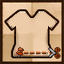
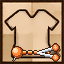
Íconos de rango: chincheta, tijera y línea de corte redibujadas más vivas y con contorno (sin aplicar)
Claude-Session: https://claude.ai/code/session_014VeQUjMv7G1rcVBXsxCHBx

diff --git a/tools/ajustar_iconos_rango.py b/tools/ajustar_iconos_rango.py
@@ -24,6 +24,15 @@ NOMBRES = ["cero", "minimo", "corto", "medio", "mediolargo", "largo", "maximo"]
 COBRE_CLARO = np.array([242, 170, 120])
 COBRE_MEDIO = np.array([184, 102, 56])
 COBRE_OSCURO = np.array([96, 44, 22])
+# Destaques (2026-10-04, "mas brillante e iconica a la chincheta y a la tijera. Y a la linea de corte"): cobre vivo.
+VIVO = np.array([255, 138, 58])
+VIVO_LUZ = np.array([255, 214, 160])
+VIVO_SOMBRA = np.array([176, 72, 28])
+TINTA = np.array([59, 36, 16])
+ACERO = np.array([206, 215, 226])
+ACERO_LUZ = np.array([248, 250, 253])
+ACERO_SOMBRA = np.array([128, 138, 154])
+XP, X_PIVOTE, X_PUNTA = 17, 45, 37      # centro de la chincheta, eje y puntas de la tijera
 
 
 def mascaras(a):
@@ -86,41 +95,105 @@ def ajustar(img):
     x_tij = int(der.min()) if len(der) else int(np.where(naranja[y0:y1 + 1].any(axis=0))[0].max()) - 8
     xa, xb = x_pin + 2, x_tij - 2           # tramo libre de la línea
 
-    # Piezas = todo lo naranja/gris que NO es el tramo libre de la línea.
+    # Piezas viejas = lo naranja/gris dentro de las ventanas de la chincheta y la tijera.
+    yc = (y0 + y1) // 2
+    ventana = np.zeros_like(naranja)
+    ventana[max(0, yc - 10):yc + 11, 10:27] = True
+    ventana[max(0, yc - 10):yc + 11, 38:64] = True
+    piezas = (naranja | gris) & ventana
     tramo = np.zeros_like(naranja)
-    tramo[max(0, y0 - 1):y1 + 2, xa:xb + 1] = True
-    piezas = (naranja | gris) & ~tramo
+    tramo[max(0, y0 - 1):y1 + 2, :] = True
+    vieja_linea = naranja & ~ventana & tramo
     barrera = dilatar(piezas, 1)
-    dentro = interior(oscuro, barrera | (tramo & naranja), (32, 40))
+    dentro = interior(oscuro, barrera | vieja_linea, (32, 40))
 
-    # 3) puntadas de adentro: mediana (5x5, dos pasadas) solo dentro del contorno y lejos de línea y piezas
+    # puntadas de adentro: mediana (5x5, dos pasadas) solo dentro del contorno y lejos de las piezas y la línea
     suave = Image.fromarray(a).filter(ImageFilter.MedianFilter(5)).filter(ImageFilter.MedianFilter(5))
     suave = np.array(suave)
-    zona = dentro & ~barrera
-    zona[max(0, y0 - 1):y1 + 2, xa:xb + 1] = False
+    zona = dentro & ~barrera & ~tramo
     b = a.copy()
     b[zona] = suave[zona]
 
-    # borrar la línea vieja: mezcla vertical entre la fila de arriba y la de abajo de la banda
-    ya, yb = max(0, y0 - 3), min(63, y1 + 3)
-    for x in range(xa, xb + 1):
-        for y in range(y0 - 1, y1 + 2):
-            if naranja[y, x]:
-                t = (y - ya) / max(1, (yb - ya))
-                b[y, x] = ((1 - t) * b[ya, x] + t * b[yb, x]).astype(np.uint8)
+    # sacar lo viejo (piezas y línea): promedio de los vecinos que no son piezas
+    sacar = dilatar(piezas, 1) | vieja_linea   # +1 px: se lleva también el contorno de tinta de lo viejo
+    valido = ~sacar
+    for _ in range(4):
+        nuevo_b = b.copy()
+        for y, x in zip(*np.where(sacar)):
+            ys, xs = slice(max(0, y - 2), y + 3), slice(max(0, x - 2), x + 3)
+            v = valido[ys, xs]
+            if v.any():
+                nuevo_b[y, x] = b[ys, xs][v].mean(axis=0)
+                valido[y, x] = True
+        b = nuevo_b
+        sacar = sacar & ~valido
 
-    # 1) recolorear el naranja de las piezas → cobre según el brillo
-    for (y, x) in zip(*np.where(naranja & piezas)):
-        v = int(a[y, x, 1])      # el verde separa luz, cuerpo y sombra del naranja
-        b[y, x] = COBRE_CLARO if v > 140 else COBRE_MEDIO if v > 95 else COBRE_OSCURO
+    # Los destaques se dibujan en una capa aparte y se les pone contorno de tinta (más icónicos).
+    capa = np.zeros((64, 64, 4), dtype=np.uint8)
 
-    # nueva línea de corte: 3 px, trazos de 4 con 2 de hueco, brillo arriba y sombra abajo
-    yc = (y0 + y1) // 2
+    def px(x, y, c):
+        if 0 <= x < 64 and 0 <= y < 64:
+            capa[y, x, :3] = c
+            capa[y, x, 3] = 255
+
+    def disco(cx, cy, r, c):
+        for y in range(cy - r, cy + r + 1):
+            for x in range(cx - r, cx + r + 1):
+                if (x - cx) ** 2 + (y - cy) ** 2 <= r * r + r * 0.6:
+                    px(x, y, c)
+
+    # línea de corte: 3 px, trazos de 4 con 2 de hueco, entre la chincheta y la tijera
+    xa, xb = XP + 5, X_PUNTA - 1
     for x in range(xa, xb + 1):
         if ((x - xa) % 6) < 4:
-            b[yc - 1, x] = COBRE_CLARO
-            b[yc, x] = COBRE_MEDIO
-            b[yc + 1, x] = COBRE_OSCURO
+            px(x, yc - 1, VIVO_LUZ)
+            px(x, yc, VIVO)
+            px(x, yc + 1, VIVO_SOMBRA)
+
+    # chincheta: cabeza redonda con luz y sombra, y la aguja que asoma abajo
+    for k in range(5):
+        px(XP - 1 - k // 2 - 1, yc + 4 + k, ACERO if k < 4 else ACERO_SOMBRA)
+    disco(XP, yc, 5, VIVO_SOMBRA)
+    disco(XP - 1, yc - 1, 4, VIVO)
+    disco(XP - 2, yc - 2, 2, VIVO_LUZ)
+    px(XP - 3, yc - 3, ACERO_LUZ)
+    px(XP - 2, yc - 3, ACERO_LUZ)
+
+    # tijera: dos hojas gruesas cruzadas en el eje, entreabiertas hacia la línea, y dos anillos con agujero
+    def hoja(x0, y0_, x1, y1_, claro, medio, sombra):
+        n = max(abs(x1 - x0), abs(y1 - y0_))
+        for k in range(n + 1):
+            t = k / n
+            x = round(x0 + (x1 - x0) * t)
+            y = round(y0_ + (y1 - y0_) * t)
+            alto = 3 if t < 0.55 else 2        # se afina hacia la punta
+            px(x, y - 1, claro)
+            px(x, y, medio)
+            if alto == 3:
+                px(x, y + 1, sombra)
+    # la hoja que sale del anillo de arriba termina abajo, y al revés (así se cruzan en el eje)
+    hoja(X_PIVOTE + 7, yc - 4, X_PUNTA, yc + 3, ACERO_LUZ, ACERO, ACERO_SOMBRA)
+    hoja(X_PIVOTE + 7, yc + 4, X_PUNTA, yc - 3, ACERO_LUZ, ACERO, ACERO_SOMBRA)
+    for sg in (-1, 1):
+        cy = yc + sg * 5
+        disco(X_PIVOTE + 10, cy, 3, VIVO_SOMBRA)
+        disco(X_PIVOTE + 10, cy, 2, VIVO)
+        px(X_PIVOTE + 9, cy - 2, VIVO_LUZ)
+        px(X_PIVOTE + 10, cy - 2, VIVO_LUZ)
+        for ddx in (-1, 0, 1):               # el agujero del anillo, del color del papel
+            px(X_PIVOTE + 10 + ddx, cy, np.array([232, 202, 160]))
+        px(X_PIVOTE + 10, cy - 1, np.array([232, 202, 160]))
+        px(X_PIVOTE + 10, cy + 1, np.array([232, 202, 160]))
+    disco(X_PIVOTE + 3, yc, 1, VIVO_SOMBRA)        # el tornillo del eje
+    px(X_PIVOTE + 3, yc, VIVO_LUZ)
+
+    # contorno de tinta de 1 px alrededor de todo lo dibujado
+    mascara = capa[..., 3] > 0
+    borde = dilatar(mascara, 1) & ~mascara
+    for y, x in zip(*np.where(borde)):
+        b[y, x] = TINTA
+    for y, x in zip(*np.where(mascara)):
+        b[y, x] = capa[y, x, :3]
     return Image.fromarray(b)
 
 
